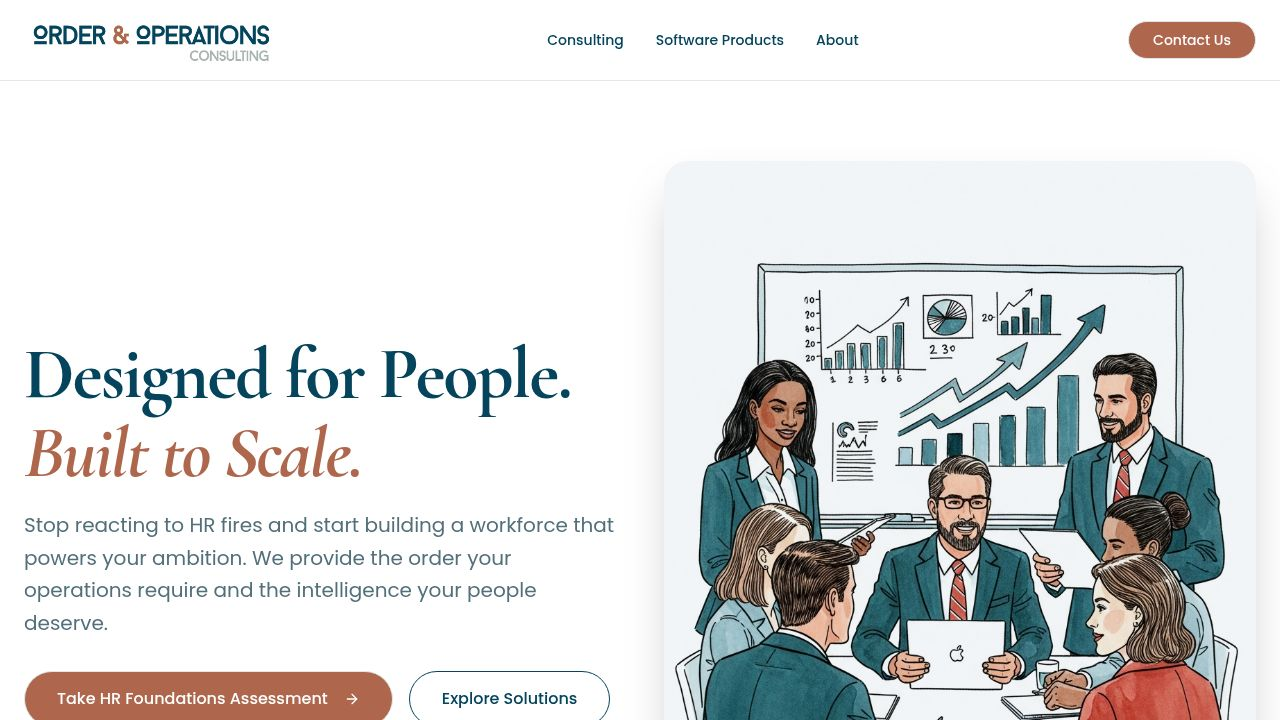
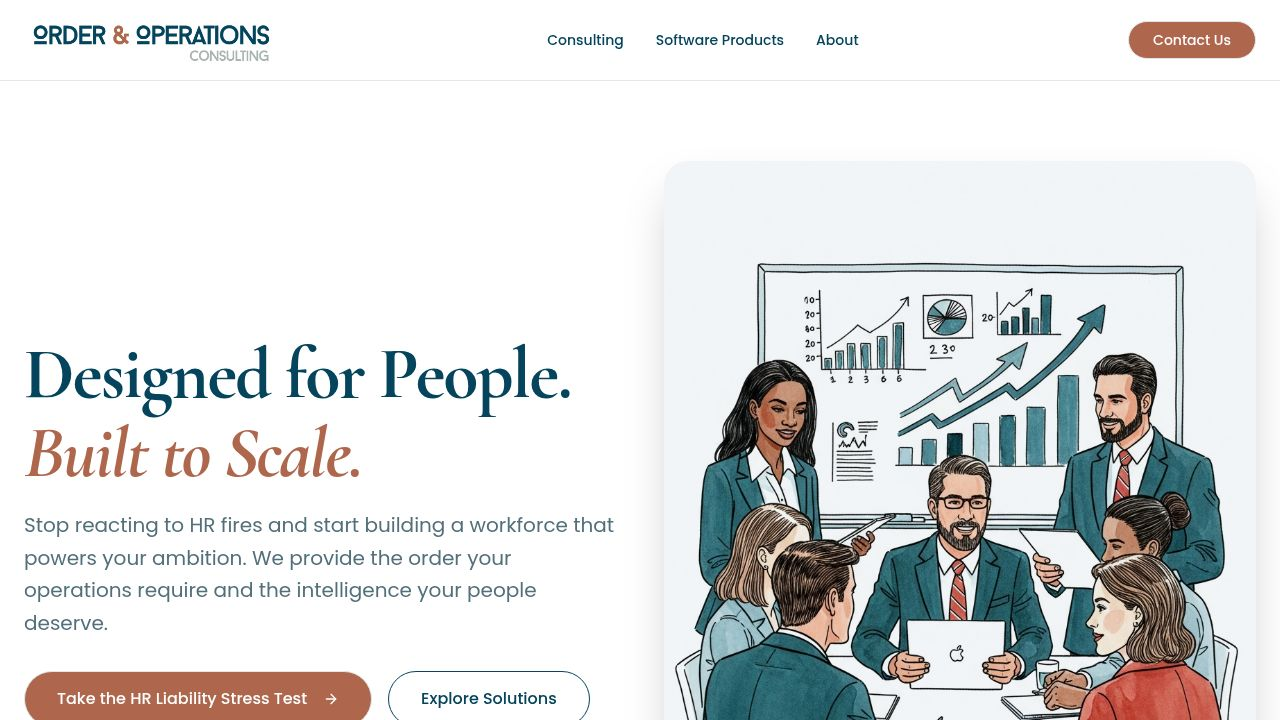
Update stress test page and fix layout overlap on homepage
Update the HR Liability Stress Test page with the correct logo and title, and adjust the positioning of a decorative card on the homepage to prevent layout issues.

Replit-Commit-Author: Agent
Replit-Commit-Session-Id: 26422e99-906e-4eaa-b2e7-9feb624f9c1c
Replit-Commit-Checkpoint-Type: full_checkpoint
Replit-Commit-Event-Id: 1101606e-06d7-4af6-9fc9-98470a1e021d
Replit-Commit-Screenshot-Url: https://storage.googleapis.com/screenshot-production-us-central1/d3d485cd-8c09-46d9-8117-71043fde03fc/26422e99-906e-4eaa-b2e7-9feb624f9c1c/jKZBhaO
Replit-Helium-Checkpoint-Created: true

Changed region(s): [[0.0625, 0.9167, 0.4688, 1.0]]

diff --git a/client/src/pages/Home.tsx b/client/src/pages/Home.tsx
@@ -73,14 +73,14 @@ export default function Home() {
                 </div>
                 
                 {/* Decorative element */}
-                <div className="absolute -bottom-8 -left-8 bg-white p-6 rounded-2xl shadow-xl z-20 max-w-[280px] hidden md:block border border-border/50">
-                  <div className="flex items-center gap-4 mb-4">
-                    <div className="h-12 w-12 rounded-full bg-primary/10 flex items-center justify-center">
-                      <CheckCircle2 className="h-6 w-6 text-primary" />
+                <div className="absolute -bottom-6 -left-6 bg-white p-4 rounded-2xl shadow-xl z-20 max-w-[240px] hidden lg:block border border-border/50">
+                  <div className="flex items-center gap-3 mb-2">
+                    <div className="h-10 w-10 rounded-full bg-primary/10 flex items-center justify-center flex-shrink-0">
+                      <CheckCircle2 className="h-5 w-5 text-primary" />
                     </div>
-                    <p className="font-semibold text-secondary">Director-Level Advisory</p>
+                    <p className="font-semibold text-secondary text-sm">Director-Level Advisory</p>
                   </div>
-                  <p className="text-sm text-muted-foreground">Expert oversight to keep your policies and engagement running smoothly.</p>
+                  <p className="text-xs text-muted-foreground">Expert oversight to keep your policies and engagement running smoothly.</p>
                 </div>
               </div>
             </div>

diff --git a/client/public/stress-test.html b/client/public/stress-test.html
@@ -212,11 +212,10 @@ header { flex-direction: column; gap: 15px; text-align: left; }
 
 <header>
 <div class="logo-text">
-<div class="logo-main">o<span>&</span>O</div>
-<div class="logo-sub">Order & Operations Consulting</div>
+<img src="/logo.png" alt="Order & Operations Consulting" style="height: 52px; width: auto; object-fit: contain; mix-blend-mode: multiply; display: block;">
 </div>
 <div class="header-text">
-<h1 class="header-title">Liability Stress Test</h1>
+<h1 class="header-title">HR Liability Stress Test</h1>
 <p class="header-subtitle">For Growing & Distributed Workforces (40+ Employees)</p>
 </div>
 </header>
